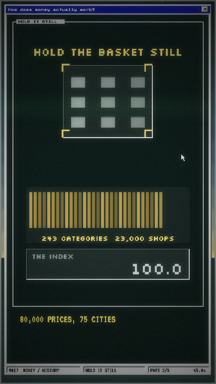
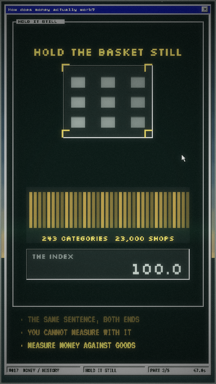
vid: four faults found by watching #017, and the two sweeps for them (v4.19)
The user asked what was wrong with ruler. It was returning 15/15.

1. A PICTURE THAT DENIES ITS OWN CAPTION. The TWO beat ends on the gold
   line NOTHING ABOUT THE BREAD CHANGED, under the narrator saying "it is
   the same loaf", with the two loaves at 110x93 and 110x64 -- one a third
   taller than the other. The merge reset the WIDTH to 110 and left the
   height computed from the swollen value. This is #018's rule (a number on
   screen must be the number the narrator says) in geometry, and it gets
   the same treatment: render/_samesize.mjs looks for a frame asserting
   sameness in words while the registered siblings it is asserting it about
   differ by more than 5%. The first regex matched any SAME, which made
   ruler's own caption "THE SAME SENTENCE, BOTH ENDS" a hit over a
   deliberately swollen loaf -- the claim has to be about the OBJECT.

2. A BEAT OPENING ON ONE OF THE TWO THINGS IT IS ABOUT. The right loaf did
   not exist until split>0.1, which is word 2 of "there are TWO ways to say
   what happened" -- 1.1s of one centred unlabelled loaf while the narrator
   says the word two. v4.16 says the furniture goes up on the first word;
   the furniture is whatever the first sentence CLAIMS. It could not be
   fixed by sliding one out of the middle: a 110px loaf needs 120px of
   centre separation, so any opening that reads as a pair is the split one.

3. A STAGE THAT HOLDS STILL FOR SEVEN SECONDS. RECAP's twelve ledger rows
[…]

Changed region(s): [[0.0833, 0.8125, 0.6389, 0.9062], [0.75, 0.5, 0.8889, 0.5938], [0.8333, 0.4062, 0.8611, 0.4375]]

diff --git a/docs/vid/ruler/piece.js b/docs/vid/ruler/piece.js
@@ -257,7 +257,14 @@ function explainer(ctx,W2,Hh,t){
      the strip sat empty for most of a beat and nothing ever accumulated. They
      now behave like the bullets of a slide: each takeaway types in UNDER the
      one before it and STAYS, three at a time, the oldest fading off the top. */
-  const CAPS=[['SO: THE UNIT',3,10],['THE SAME SENTENCE, BOTH ENDS',6,4],['THE RULER IS RUBBER',8,12],['80,000 PRICES, 75 CITIES',10,3],['THE SWAP IS THE ARGUMENT',13,10],['A 1970 DOLLAR = 12 CENTS',14,10],['IT HALVES IN 23 YEARS',15,8]];
+  /* THE CAPTION CARRIES THE CLAUSE THE PICTURE DOES NOT SAY. Four of these
+     were word-for-word what the stage was already printing in the same frame
+     -- 'THE SAME SENTENCE, BOTH ENDS' appeared twice at once, in white inside
+     the box and in gold in the strip below it. More than any other piece in
+     the library. Two captions were rewritten to the clause the stage leaves
+     out, and the two stage lines that the strip says better were dropped.
+     v4.19. */
+  const CAPS=[['SO: THE UNIT',3,10],['THE SAME SENTENCE, BOTH ENDS',6,4],['YOU CANNOT MEASURE WITH IT',8,12],['MEASURE MONEY AGAINST GOODS',10,3],['THE SWAP IS THE ARGUMENT',13,10],['A 1970 DOLLAR = 12 CENTS',14,10],['IT HALVES IN 23 YEARS',15,8]];
   const capStack=()=>{
     /* The closing overview shows these same takeaways as its bullets, so the
        strip stands down when that window opens rather than printing them
@@ -330,12 +337,25 @@ function explainer(ctx,W2,Hh,t){
       /* part two's ledger rows, collapsing into one $ which lands on a stick */
       const coll=after(3,0)?mp(wordAt(3,4),wordAt(3,9)):0;
       const rows=12;
-      for(let i=0;i<rows;i++){
+      /* THE ROWS ARRIVE ON THEIR OWN SENTENCE. All twelve used to be drawn,
+         complete and motionless, from the scene cut at 9.27 until the collapse
+         began at 16.5 -- seven seconds of an unlabelled gold block with
+         nothing moving but a line of text typing in a corner, while two whole
+         sentences were spoken. They now count in across "the total of
+         everyone's unpaid promises", which is what they are. v4.19. */
+      const fill=coll>0?1:mp(wordAt(2,4),wordAt(2,12));
+      const shown=Math.max(2,Math.round(fill*rows));
+      for(let i=0;i<shown;i++){
         const y0=320+i*11, y1=368;
         const y=Math.round(H.lerp(y0,y1,H.ease.inOut(coll)));
         const w=Math.round(H.lerp(296,40,H.ease.inOut(coll)));
         rect(Math.round(216-w/2),y,w,6,H.rgba(H.mix(P.gold,P.ink,0.50-((i%2)*0.12))));
       }
+      /* and they are NAMED, because twelve gold bars are not self-evidently
+         part two's promises */
+      if(fill>0.2&&coll<0.15)
+        px('UNPAID PROMISES',216,302,14,H.rgba(H.mix(P.gold,P.ink,0.30)),
+           'center','"Silkscreen"');
       if(coll>0.75){
         pxShadow('$',216,398,32,P.gold,P.ink,'center','"Silkscreen"');
         stick(L.stickX,474,L.stickW*0.9,null,null,'rstick');
@@ -359,41 +379,64 @@ function explainer(ctx,W2,Hh,t){
     /* ============ TWO -- the same event, drawn twice, then one deleted ===== */
     if(T>=BEAT.TWO.sc&&T<BEAT.RULER.sc){
       groupBox(BX,BY,BW,BH,'BOTH ENDS');
-      const split=mp(wordAt(5,2),wordAt(5,8));
+      /* THE BEAT OPENS ON THE PAIR. The split used to start on word 2 of
+         "there are TWO ways to say what happened", and the right-hand loaf did
+         not exist until then -- so for the first 1.1s of a beat about two
+         things the stage held ONE loaf, centred, unlabelled, while the
+         narrator said the word two. Two identical loaves either side of the
+         divider ARE that sentence; what arrives on the words is the LABELS.
+         Nothing can slide out of the middle instead, because a 110px loaf
+         needs 120px of centre separation to clear its twin -- any opening
+         that reads as a pair is already the fully split one. v4.19. */
+      const lx=120, rx=310;
+      const say=mp(wordAt(5,2),wordAt(5,8));
       const merge=after(7,4)?mp(wordAt(7,4),wordAt(7,9)):0;
-      if(split>0.1&&merge<0.9)
-        for(let y=132;y<470;y+=8) rect(216,y,1,4,H.rgba(H.mix(P.bone,P.ink,0.60)));
+      if(merge<0.9){
+        const dn=132+Math.round(338*H.clamp((M-BEAT.TWO.sc)/0.70));
+        for(let y=132;y<dn;y+=8) rect(216,y,1,4,H.rgba(H.mix(P.bone,P.ink,0.60)));
+      }
       const grow=after(6,0)?mp(wordAt(6,0),wordAt(6,2)):0;
       const shrink=after(6,4)?mp(wordAt(6,4),wordAt(6,7)):0;
       // LEFT: the loaf swells
-      const lx=Math.round(H.lerp(216,120,split));
-      if(split>0.55){
+      if(say>0.55){
         px('BREAD GOT',lx,142,14,H.rgba(P.bone),'center','"Silkscreen"');
         px('DEARER',lx,164,14,H.rgba(P.bone),'center','"Silkscreen"');
       }
       /* capped at 160: the left half is 174px wide and an uncapped swell ran
          the loaf out through the group box border at x=21. */
-      const lw=Math.min(160,Math.round(110*(1+1.2*grow)));
-      loaf(lx,250,merge>0.5?110:lw,Math.round(lw*0.58),'lloaf');
+      const swell=Math.min(160,Math.round(110*(1+1.2*grow)));
+      /* AND THE MERGE PUTS BOTH DIMENSIONS BACK. It reset the WIDTH to 110 and
+         left the height computed from the swollen value, so the beat ended on
+         a 110x93 loaf beside a 110x64 one -- visibly a third taller -- in the
+         exact frame that says NOTHING ABOUT THE BREAD CHANGED while the
+         narrator says "it is the same loaf". v4.19. */
+      const lw=Math.round(H.lerp(swell,110,H.ease.inOut(H.clamp((merge-0.15)/0.45))));
+      loaf(lx,250,lw,Math.round(lw*0.58),'lloaf');
+      /* and the left half gets the SAME ruler, at a fixed length. Without it
+         the two halves were not the same construction -- left was a loaf on
+         its own, right was a loaf over a ruler -- so there was nothing to read
+         the growing loaf against, and no pair for "the same sentence from
+         opposite ends" to be a pair OF. Left: the loaf grows against a fixed
+         unit. Right: the unit shrinks under a fixed loaf. v4.19. */
+      stick(lx-70,330,140,null,null,'lstick');
       // RIGHT: the loaf is fixed and the stick shrinks under it
-      if(split>0.1){
-        const rx=Math.round(H.lerp(216,310,split));
-        if(split>0.55){
-          px('THE DOLLAR',rx,142,14,H.rgba(P.gold),'center','"Silkscreen"');
-          px('GOT SMALLER',rx,164,14,H.rgba(P.gold),'center','"Silkscreen"');
-        }
-        loaf(rx,250,110,64,'rloaf');
-        /* a ghost of what the stick WAS, so the shrink is a comparison and
-           not just a short stick. Without it the right half showed a small
-           object with nothing to be small against. */
-        if(shrink>0.02){
-          for(let i=0;i<140;i+=5) rect(rx-70+i,336,3,1,H.rgba(H.mix(P.bone,P.ink,0.62)));
-          rect(rx-70,330,1,14,H.rgba(H.mix(P.bone,P.ink,0.62)));
-          rect(rx+70,330,1,14,H.rgba(H.mix(P.bone,P.ink,0.62)));
-        }
-        stick(rx-70,330,140*(1-0.78*shrink),null,null,'tstick');
+      if(say>0.55){
+        px('THE DOLLAR',rx,142,14,H.rgba(P.gold),'center','"Silkscreen"');
+        px('GOT SMALLER',rx,164,14,H.rgba(P.gold),'center','"Silkscreen"');
       }
-      if(merge>0.3) pxShadow('THE SAME SENTENCE, BOTH ENDS',216,430,16,P.paper,P.ink,'center','"Silkscreen"');
+      loaf(rx,250,110,64,'rloaf');
+      /* a ghost of what the stick WAS, so the shrink is a comparison and
+         not just a short stick. Without it the right half showed a small
+         object with nothing to be small against. */
+      if(shrink>0.02){
+        for(let i=0;i<140;i+=5) rect(rx-70+i,336,3,1,H.rgba(H.mix(P.bone,P.ink,0.62)));
+        rect(rx-70,330,1,14,H.rgba(H.mix(P.bone,P.ink,0.62)));
+        rect(rx+70,330,1,14,H.rgba(H.mix(P.bone,P.ink,0.62)));
+      }
+      stick(rx-70,330,140*(1-0.78*shrink),null,null,'tstick');
+      /* the hero line here used to be THE SAME SENTENCE, BOTH ENDS -- the
+         caption strip's own words, printed twice in one frame. The strip keeps
+         it; the stage keeps the clause the strip does not carry. */
       if(merge>0.6) px('NOTHING ABOUT THE BREAD CHANGED',216,462,14,H.rgba(P.gold),'center','"Silkscreen"');
     }
 
@@ -445,8 +488,8 @@ function explainer(ctx,W2,Hh,t){
       /* the index: it MOVES when the swap happens, which is the beat's claim */
       const base=100, idx=base+(changing?Math.round(swap*3.4*10)/10:0);
       counterPlate(L.idx,'THE INDEX',idx.toFixed(1),changing&&swap>0.5?P.red:P.bone);
-      if(changing&&after(13,0))
-        px('THE SWAP IS THE ARGUMENT',216,L.low,16,H.rgba(P.red),'center','"Silkscreen"');
+      /* 'THE SWAP IS THE ARGUMENT' is the caption, and it was printed here as
+         well -- the same words twice in one frame. The strip keeps it. */
     }
 
     /* ============ NUMBER -- twelve cents ================================== */

diff --git a/docs/vid/run/piece.js b/docs/vid/run/piece.js
@@ -273,7 +273,11 @@ function explainer(ctx,W2,Hh,t){
      the strip sat empty for most of a beat and nothing ever accumulated. They
      now behave like the bullets of a slide: each takeaway types in UNDER the
      one before it and STAYS, three at a time, the oldest fading off the top. */
-  const CAPS=[['THIRTY YEARS vs THE MORNING',2,4],['THE GAP IS THE BUSINESS',4,2],['NO BANK CAN',5,10],['BOTH ENDINGS ARE STABLE',9,6],['IT DEPENDS WHAT YOU EXPECT',8,0],['$42bn IN ONE DAY',11,10],['NO VAULT SURVIVES EVERYONE',13,4],['THE QUEUE GOES. NOBODY IS PAID.',15,1]];
+  /* 'IT DEPENDS WHAT YOU EXPECT' was the caption AND the beat's hero line,
+     printed together in the same frame. The hero is the anchor and stays; the
+     caption now carries sentence 8's own payoff, which the stage never says.
+     v4.19. */
+  const CAPS=[['THIRTY YEARS vs THE MORNING',2,4],['THE GAP IS THE BUSINESS',4,2],['NO BANK CAN',5,10],['BOTH ENDINGS ARE STABLE',9,6],['GONE BY THE AFTERNOON',8,0],['$42bn IN ONE DAY',11,10],['NO VAULT SURVIVES EVERYONE',13,4],['THE QUEUE GOES. NOBODY IS PAID.',15,1]];
   const capStack=()=>{
     /* The closing overview shows these same takeaways as its bullets, so the
        strip stands down when that window opens rather than printing them

diff --git a/docs/vid/interest/piece.js b/docs/vid/interest/piece.js
@@ -463,7 +463,13 @@ function explainer(ctx,W2,Hh,t){
         px('THE SAME, LATE',216,356,16,H.rgba(P.red),'center','"Silkscreen"');
         px(cutL+' PAYMENTS GONE',216,382,22,H.rgba(P.red),'center','"Silkscreen"');
       }
-      if(l>0.8) px('EARLY DOLLARS DELETE INTEREST',216,L.low-36,14,
+      /* 'EARLY DOLLARS DELETE INTEREST' is this beat's caption and was printed
+         on the stage here as well -- the same words twice in one frame. The
+         strip keeps the caption; the stage takes the half of sentence 16 the
+         strip does NOT carry, which is also what keeps the beat's centre of
+         mass inside checkComposition's band -- deleting the line outright put
+         it 79px high against a 56px tolerance. v4.19. */
+      if(l>0.8) px('A LATE ONE SKIPS THE CHEAPEST',216,L.low-36,14,
                    H.rgba(P.paper),'center','"Silkscreen"');
     }
 

diff --git a/docs/vid/bike/piece.js b/docs/vid/bike/piece.js
@@ -421,9 +421,13 @@ function explainer(ctx,W2,Hh,t){
   const CLICK=VO[VO.length-1].z+0.52, SHUT=CLICK+0.15;
 
   /* ===== THE TAKEAWAY STACK ===== */
+  /* 'NEITHER IS NEEDED.' was the caption AND the beat's hero line in the same
+     frame. The hero stays; the caption now carries the half the stage leaves
+     out -- not sufficient either, which is the finding most retellings drop.
+     v4.19. */
   const CAPS=[['NOBODY IS STEERING IT.',2,0],['ANSWER 1: THE SPIN.',3,5],
               ['ANSWER 2: THE TRAIL.',4,16],['NO GYRO. TRAIL -4 MM.',6,13],
-              ['STABLE ABOVE 2.3 M/S.',7,10],['NEITHER IS NEEDED.',9,2],
+              ['STABLE ABOVE 2.3 M/S.',7,10],['NOT NEEDED, NOT ENOUGH.',9,2],
               ['THE SHORT ONE FALLS FASTER.',13,6],['IT STEERS INTO THE FALL.',15,3]];
   const capStack=()=>{
     if(after(17,0)) return;

diff --git a/docs/vid/lend/piece.js b/docs/vid/lend/piece.js
@@ -458,7 +458,10 @@ function explainer(ctx,W2,Hh,t){
         px(s,216,y,16,H.rgba(P.paper),'center','"Silkscreen"');
       });
       vaultBox(L.vault,1);
-      if(after(14,0)) px('NOT A VAULT RUNNING DRY',216,L.low,16,H.rgba(P.red),'center','"Silkscreen"');
+      /* 'NOT A VAULT RUNNING DRY' is the caption for this beat, fired on the
+         same word -- it was printed here as well, so the strip and the stage
+         said the identical thing in the identical frame. The strip keeps it,
+         because a caption persists and a stage line is wiped. v4.19. */
     }
 
     /* ============ KILL -- repaying destroys it ============================ */

diff --git a/docs/vid/bike/index.html b/docs/vid/bike/index.html
@@ -47,7 +47,7 @@
 </div>
 </div>
 <script src="../cathode-lib.js?v=e7650aa2e9"></script>
-<script src="piece.js?v=32a18f07a3"></script>
+<script src="piece.js?v=a1294b97e3"></script>
 <script src="../cathode-run.js?v=a83a051680"></script>
 </body>
 </html>

diff --git a/docs/vid/interest/index.html b/docs/vid/interest/index.html
@@ -47,7 +47,7 @@
 </div>
 </div>
 <script src="../cathode-lib.js?v=e7650aa2e9"></script>
-<script src="piece.js?v=a658bdc6db"></script>
+<script src="piece.js?v=cd55d9e509"></script>
 <script src="../cathode-run.js?v=a83a051680"></script>
 </body>
 </html>

diff --git a/docs/vid/lend/index.html b/docs/vid/lend/index.html
@@ -47,7 +47,7 @@
 </div>
 </div>
 <script src="../cathode-lib.js?v=e7650aa2e9"></script>
-<script src="piece.js?v=8ca6fa7f6e"></script>
+<script src="piece.js?v=70cfbeeb99"></script>
 <script src="../cathode-run.js?v=a83a051680"></script>
 </body>
 </html>

diff --git a/docs/vid/ruler/index.html b/docs/vid/ruler/index.html
@@ -47,7 +47,7 @@
 </div>
 </div>
 <script src="../cathode-lib.js?v=e7650aa2e9"></script>
-<script src="piece.js?v=81cef05a5e"></script>
+<script src="piece.js?v=e2d4db0119"></script>
 <script src="../cathode-run.js?v=a83a051680"></script>
 </body>
 </html>

diff --git a/docs/vid/run/index.html b/docs/vid/run/index.html
@@ -47,7 +47,7 @@
 </div>
 </div>
 <script src="../cathode-lib.js?v=e7650aa2e9"></script>
-<script src="piece.js?v=f6dab51155"></script>
+<script src="piece.js?v=b2e8cbaee1"></script>
 <script src="../cathode-run.js?v=a83a051680"></script>
 </body>
 </html>

diff --git a/docs/vid/CATHODE-DESK.md b/docs/vid/CATHODE-DESK.md
@@ -1,7 +1,69 @@
-# CATHODE DESK — house style v4.18
+# CATHODE DESK — house style v4.19
 
 **Locked 2026-11-13. This file is the authority. If a build disagrees with this file, the build is wrong.**
 
+> **v4.19 (2026-11-13)** — **four faults found by WATCHING #017 `ruler`, none
+> of which any of the fifteen sweeps could see.** The user asked what was wrong
+> with it; it was returning 15/15.
+>
+> **1. A picture that denies its own caption.** `TWO` ends on the gold line
+> **NOTHING ABOUT THE BREAD CHANGED**, under the narrator saying *"it is the
+> same loaf"* — with the two loaves at **110×93 and 110×64**, one visibly a
+> third taller than the other. The merge reset the **width** to 110 and left
+> the height computed from the swollen value (`Math.round(lw*0.58)`, `lw` still
+> 160). This is the #018 fault — *a number on screen must be the number the
+> narrator says* — in geometry rather than digits, and it gets the same
+> treatment: **`_samesize.mjs`** looks for a frame that asserts sameness in
+> words while the registered siblings it is asserting it about differ by more
+> than 5%. The first regex matched any `SAME`, which made ruler's own caption
+> *"THE SAME SENTENCE, BOTH ENDS"* a hit over a deliberately swollen loaf — the
+> claim has to be about the **object**, not about a sentence.
+>
+> **2. A beat that opens showing one of the two things it is about.** `TWO`
+> cuts at 29.67 and its right-hand loaf did not exist until `split > 0.1`,
+> which is word 2 of *"there are **two** ways to say what happened"* — so for
+> **1.1s** the stage held one loaf, centred, unlabelled, while the narrator
+> said the word two. v4.16's empty-stage rule says the furniture goes up on the
+> beat's first word; **the furniture is whatever the first sentence CLAIMS.**
+> And it could not be fixed by sliding one loaf out of the middle: a 110px loaf
+> needs 120px of centre separation to clear its twin, so any opening that reads
+> as a pair is already the fully split one. The beat opens on the pair; what
+> arrives on the words is the labels.
+>
+> **3. A stage that holds still for seven seconds.** `RECAP`'s twelve ledger
+> rows were drawn complete and motionless from the scene cut at 9.27 until the
+> collapse began at 16.5 — two whole sentences, with nothing moving but a line
+> of text typing in a corner, over an unlabelled gold block. **An object that
+> belongs to a sentence arrives on that sentence**: the rows now count in
+> across *"the total of everyone's unpaid promises"*, and they are **named**,
+> because twelve gold bars are not self-evidently part two's promises. (No
+> sweep for this one: a probe on registered geometry measures registration
+> coverage, not motion, and flagged 16 seconds of `planes` that is animating
+> throughout. **A measurement that cannot tell the difference is not a
+> sweep** — this was found by looking and is fixed by looking.)
+>
+> **4. The caption repeating the stage word for word.** The strip carries the
+> load-bearing clause — *not* what the picture is already saying. #017 printed
+> **THE SAME SENTENCE, BOTH ENDS** twice in one frame, white inside the box and
+> gold in the strip below it, and did the same with three more. **`_dupcap.mjs`**
+> compares the two. Library: ruler 4, run 1, lend 1, interest 1, bike 1 — and
+> **the first version of the probe cried wolf five more times, because a
+> caption TYPES**, so mid-stroke it passes through every prefix of itself and
+> matched any stage line that was a prefix of a longer caption (`NO VAULT
+> SURVIVES` inside `NO VAULT SURVIVES EVERYONE`, which is a caption doing its
+> job). Only the finished caption counts.
+>
+> Two general rules came out of it. **A line is deleted from the stage at the
+> stage's own cost:** dropping #018's duplicate put that beat's centre of mass
+> 79px high against a 56px tolerance and `checkComposition` caught it, so a
+> duplicate is *replaced* with the half of the sentence the caption leaves out,
+> not simply removed. And **two halves of a comparison must be the same
+> construction** — ruler's left half was a loaf alone and its right a loaf over
+> a ruler, so there was nothing to read the growing loaf against and no pair
+> for "the same sentence from opposite ends" to be a pair *of*. Both halves now
+> carry the same ruler: left, the loaf grows against a fixed unit; right, the
+> unit shrinks under a fixed loaf.
+>
 > **v4.18 (2026-11-13)** — **the card must not sit on the gag: the object is
 > the title card's visual hook and has to be VISIBLE while the question types.**
 > Reported by the user watching #020: *"the gag is fully hidden behind the title
